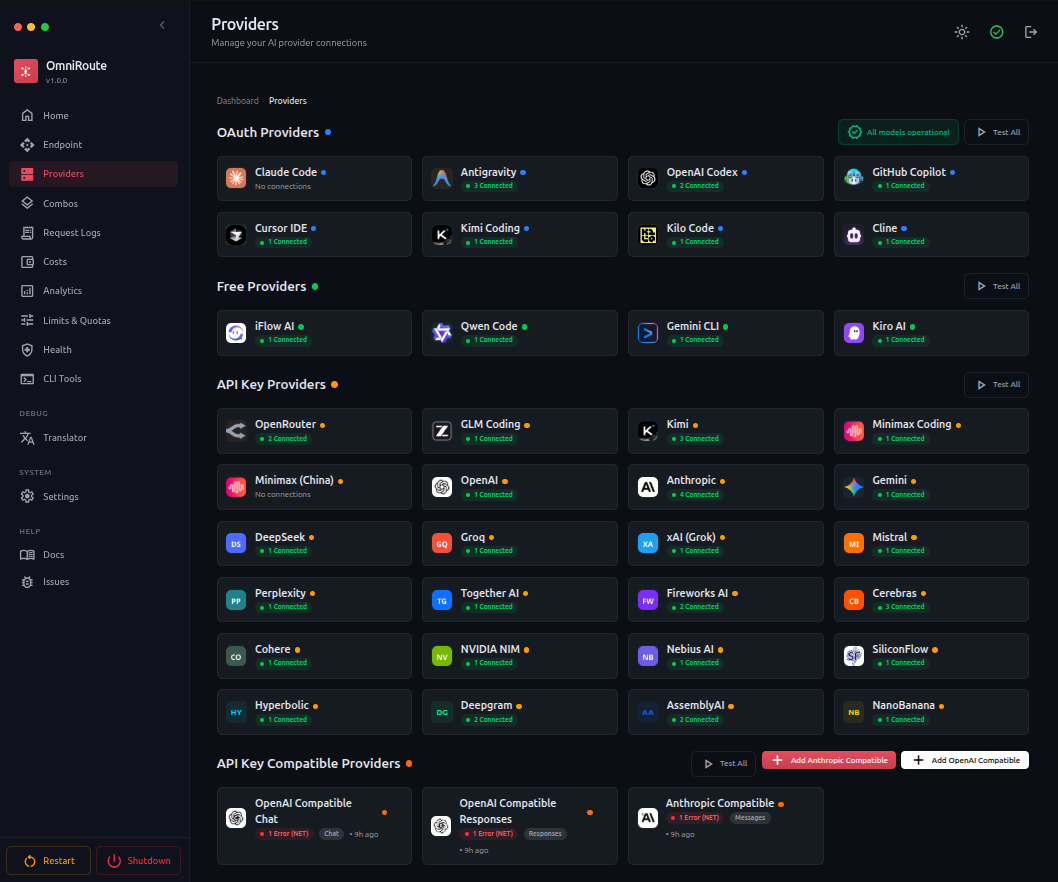
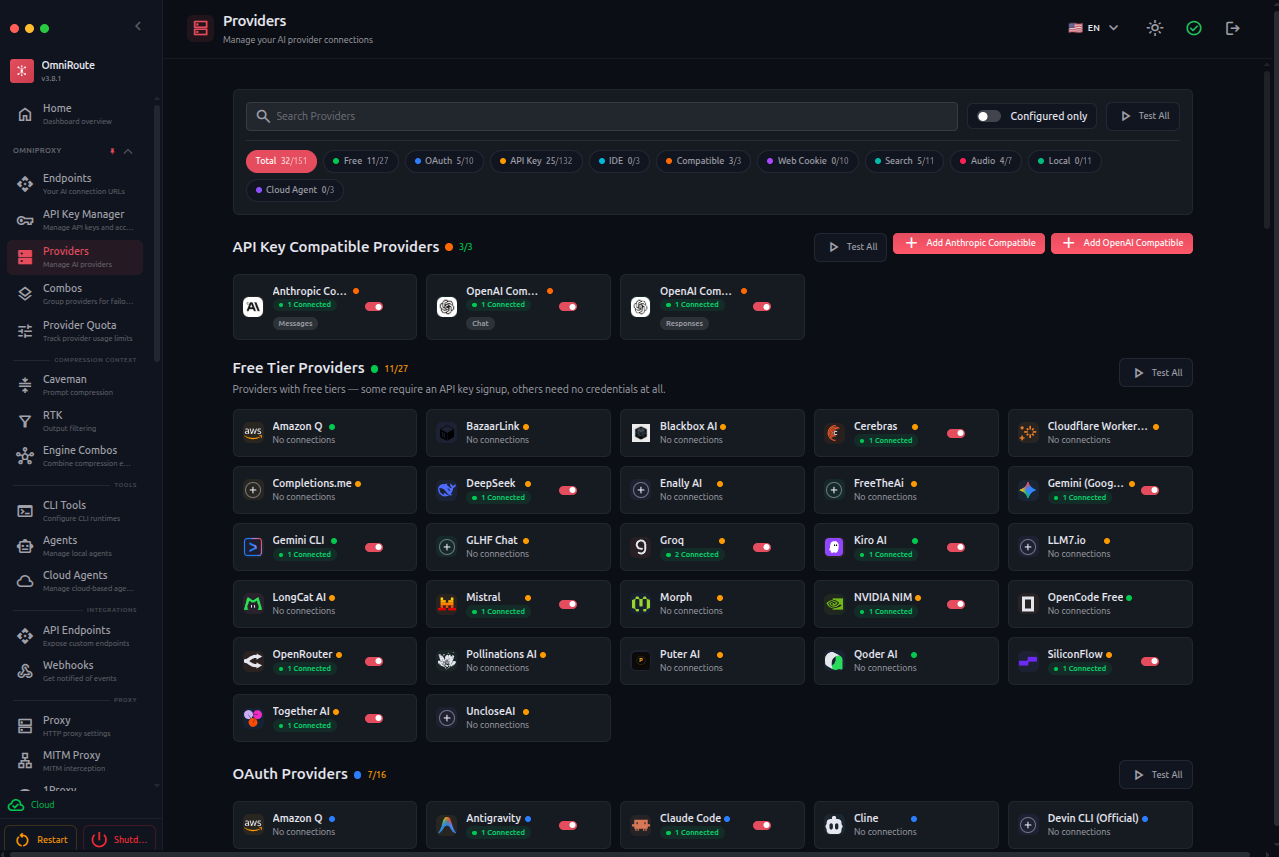
fix(deepseek-web): fix SSE parser, prompt format, and error handling (#2502)
fix(deepseek-web): fix SSE parser, prompt format, and error handling — integrated into release/v3.8.2

diff --git a/tests/unit/deepseek-web.test.ts b/tests/unit/deepseek-web.test.ts
@@ -213,7 +213,7 @@ test("execute: full flow with mocked API (streaming)", async () => {
     );
     const body = JSON.parse(compCall.body);
     assert.equal(body.chat_session_id, "session-abc-123");
-    assert.equal(body.prompt, "Say hello");
+    assert.ok(body.prompt.includes("Say hello"), "Prompt should contain user message");
   } finally {
     mock.restore();
   }

diff --git a/README_REDESIGN_MANUAL.md b/README_REDESIGN_MANUAL.md
@@ -1,0 +1,177 @@
+# 📐 Manual de Repaginação do README — OmniRoute
+
+> Documento de trabalho. Analisa o README atual, compara com o 9router e propõe **3 layouts**
+> para a parte **acima** de `## 🛠️ Tech Stack`. Não é parte da documentação publicada — pode
+> ser apagado depois que o redesign for aplicado.
+
+---
+
+## 0. Escopo do redesign
+
+| Faixa                             | Linhas        | Ação                                                                                                                |
+| --------------------------------- | ------------- | ------------------------------------------------------------------------------------------------------------------- |
+| **Topo → fim do Troubleshooting** | **1–1468**    | 🎯 **Redesenhar** (27 seções)                                                                                       |
+| `## 🛠️ Tech Stack` em diante      | **1469–1678** | 🔒 **Manter intacto** (Tech Stack, Documentation, Contributors, Star History, StarMapper, Acknowledgments, License) |
+
+Estado atual do alvo: **27 seções / ~1.468 linhas**. O 9router cobre o mesmo terreno em **~7 seções enxutas**.
+
+---
+
+## 1. Diagnóstico — o que está quebrado
+
+### 1.1 Hero sobrecarregado (linhas 1–60)
+
+- **Dois blocos de badges** separados (linhas 9–13 e 41–56): npm, license, node, stars, Trendshift, depois npm version/week/month/year, Docker, electron, license (de novo), contributions, streak, website, whatsapp.
+- **Trendshift duplicado**: linha 13 **e** linha 25.
+- **Promo AgentRouter gigante** (badge `for-the-badge` + subtítulo "Limited offer") logo no topo — parece anúncio antes de explicar o produto.
+- **Mural de 40+ idiomas** (linha 35): uma parede de bandeiras a 35 linhas do topo.
+- **Parágrafo-descrição denso** (linha 7) com 6 números em negrito numa só frase — nada "brilha", tudo compete pela atenção.
+- **Resultado**: a primeira tela é uma muralha de badges/links/promo. Falta um soco visual de "o que é + por que me importo".
+
+### 1.2 Números inconsistentes (corrói credibilidade)
+
+| Métrica                    | Onde diverge                                                                                           | Valores conflitantes |
+| -------------------------- | ------------------------------------------------------------------------------------------------------ | -------------------- |
+| **Provedores totais**      | hero (l.7) `160+` · Why (l.214) `207+` · tabela vs alternativas (l.260) `207+` · header (l.406) `160+` | **160+ vs 207+**     |
+| **MCP tools / scopes**     | hero/Also-solves `37 tools` · tabela 31 problemas (l.708) `29 tools, 10 scopes`                        | **37/13 vs 29/10**   |
+| **Estratégias de routing** | hero (l.7) `13` · tabela Why (l.261) `14`                                                              | **13 vs 14**         |
+| **Provedores free**        | "11 Free Providers" (l.689, l.1024) · tabela visual (l.426) mostra `8` · About `50+`                   | **8 vs 11 vs 50+**   |
+
+### 1.3 Conteúdo duplicado / redundante
+
+- **DOIS diagramas de fallback** que até divergem: "Why OmniRoute?" mostra **3 tiers** (l.221–246); "How It Works" mostra **4 tiers** (l.531–555).
+- **TRÊS listas de benefícios sobrepostas**: "Why this matters / Also solves" (l.248–289) + "What OmniRoute Solves" (l.680, tabela + 31 problemas) + "Key Features" (l.1091). Dizem quase a mesma coisa três vezes.
+- **Compressão mencionada 5×**: hero, "Also solves", diagrama "How It Works", seção dedicada, e "Key Features".
+
+### 1.4 Ordem de seções problemática
+
+- `## 📧 Support` na **linha 292** — cedo demais (antes de mostrar CLI tools, provedores ou features).
+- `## ⚡ Quick Start` só na **linha 746** — o dev rola ~745 linhas de marketing antes de descobrir como instalar. Para uma ferramenta de dev, isso é invertido.
+- `## 🤖 AI Agent Skills` (l.516) espremida entre Providers e How It Works — quebra o fluxo.
+
+### 1.5 Muros de texto
+
+- **Docker** (l.807–896): parágrafos longos de notas (Cloudflare tunnel, WAL, stop-timeout…) que deveriam estar colapsados.
+- **Compressão** (l.559–677): excelente conteúdo, mas longo e técnico demais para a primeira dobra de um README.
+- **FAQ** (l.1345–1454, ~110 linhas), **Use Cases** (l.1159–1265, ~106 linhas), **Pricing** (l.980–1021): grandes e abertos.
+
+### 1.6 Tamanho
+
+~1.468 linhas antes do Tech Stack. Meta realista de redução: **‑60% a ‑75%** de conteúdo visível (o resto vai para `<details>` ou links de docs, sem perder nada).
+
+---
+
+## 2. Correções transversais (aplicam-se a QUALQUER layout escolhido)
+
+### 2.1 Fixar números canônicos (escolher um valor e usar em todo lugar)
+
+| Métrica                | Valor canônico recomendado                                     | Observação                                                      |
+| ---------------------- | -------------------------------------------------------------- | --------------------------------------------------------------- |
+| Provedores totais      | **160+**                                                       | Combina com a About nova e o header da seção. Aposentar `207+`. |
+| Provedores free        | **11 grátis "forever" + 50+ com free-tier**                    | Alinhar a tabela visual (hoje 8) e os headers.                  |
+| MCP                    | **37 tools · 3 transports · 13 scopes**                        | Corrigir `29 tools / 10 scopes` da tabela dos 31 problemas.     |
+| Estratégias de routing | **14**                                                         | Corrigir o `13` do hero.                                        |
+| Compressão             | **15–95% (RTK+Caveman stacked), ~89% médio**                   | Já consistente — manter.                                        |
+| Provas sociais         | **4.690+ testes · 517 arquivos · 40+ idiomas · 16+ CLI tools** | Manter como credibilidade.                                      |
+
+### 2.2 Deduplicar
+
+- **Um único** diagrama de fallback (unificar os dois; usar 4 tiers: Subscription → API Key → Cheap → Free).
+- **Uma única** tabela consolidada de capacidades (fundir "What Solves" + "Key Features" + "Also solves").
+- **Um único** Trendshift no hero.
+
+### 2.3 Reordenar
+
+- `Quick Start` sobe para logo após o pitch.
+- `Support` desce para o rodapé (logo antes do Tech Stack).
+- Niche (Agent Skills, Transcription, Evals) viram `<details>` ou blocos curtos no fim.
+
+### 2.4 Persuasão honesta (promessas que cumprimos)
+
+Manter o tom vendedor, mas toda afirmação ancorada: "never hit limits" → justificado pelo **auto-fallback**; "save up to 95%" → é o teto do **stacked**, citar a média ~89%; "unlimited FREE" → é o que Kiro/Qoder/Qwen oferecem hoje (datado). Evitar superlativos sem lastro.
+
+---
+
+## 3. Princípios de design
+
+**Do 9router (o que copiar):** hero curtíssimo (logo + 1 tagline + 1 linha "conecte X → Y" + 5 badges + nav); bloco `❌ problema / ✅ solução` escaneável; **um** diagrama; Quick Start em 3 passos logo no início.
+
+**Nossa vantagem (o que destacar, e o 9router não tem):** 160+ provedores (vs 40+) · RTK **+ Caveman stacked** 15–95% (vs RTK 20–40%) · MCP (37 tools) · A2A · Memory · Skills · Guardrails · Evals · 14 estratégias · multi-plataforma (Web/Desktop/Termux/PWA) · 40+ idiomas · TLS stealth · cloud agents.
+
+---
+
+## 4. Os 3 layouts propostos
+
+### 🅰️ Layout A — Minimalista / Dev-first
+
+**Filosofia:** chegar a valor + instalação no menor número de linhas. Colapsar agressivamente. Meta **~350–450 linhas**.
+
+```
+1. Hero slim (img + título + 1 tagline + 1 linha "conecte X→Y" + 5 badges + nav)
+   └─ <details> Badges extras, 40+ idiomas, sponsor AgentRouter
+2. 🤔 Why — ❌problema / ✅solução (estilo 9router) + 5 linhas do comparativo
+   └─ <details> tabela comparativa completa
+3. 🔄 How It Works — UM diagrama de fallback unificado
+4. ⚡ Quick Start — 3 passos  └─ <details> Docker/source/Arch/pnpm
+5. 🤖 Tools + Providers (grids enxutos)  └─ <details> "+130 provedores"
+6. 💡 Capabilities — UMA tabela consolidada  └─ <details> 31 problemas
+7. 🗜️ Compressão — tabela + before/after  └─ <details> arquitetura/math
+8. 📚 Resto (Pricing, Use Cases, Proxy, Platforms, FAQ…) → <details> ou links docs
+```
+
+**Prós:** lê em 1 minuto, dev instala rápido. **Contras:** marketing/visual mais discreto.
+
+---
+
+### 🅱️ Layout B — Vitrine visual / Marketing-first
+
+**Filosofia:** encantar e vender a promessa, depois provar. Landing-page. Meta **~600–700 linhas**.
+
+```
+1. Hero visual (screenshot grande + headline-promessa + faixa de 3 stats
+   "160+ provedores · 15–95% economia · $0 pra começar" + CTAs)
+2. 💥 A Promessa — grid 2×3 de cards (Never hit limits / Save 95% / $0 / Todo tool / 1 endpoint / Self-host)
+3. 🤔 Why — ❌/✅
+4. 🏆 vs Alternativas — tabela comparativa VISÍVEL (é persuasiva)
+5. 🎬 Prova social — vídeos + Trendshift + estrelas no alto
+6. 🤖 Funciona com suas ferramentas — grid com ⭐ stars
+7. 🌐 160+ provedores — grid visual, free destacado
+8. 🗜️ Economize 15–95% — números headline + before/after
+9. ⚡ Quick Start — 3 passos
+10. 📚 Resto → <details>
+```
+
+**Prós:** impressiona, ótimo pra conversão/compartilhamento. **Contras:** mais longo; dev técnico pode achar "vendedor demais".
+
+---
+
+### 🅲 Layout C — Equilibrado / Híbrido ⭐ (recomendado)
+
+**Filosofia:** hero limpo-mas-confiante, caminho rápido ao valor, prova persuasiva, e `<details>` disciplinado. Narrativa: Gancho → Por quê → Prova → Instale → Capacidades → Aprofundamentos (colapsados). Meta **~500–600 linhas**.
+
+```
+1. Hero limpo (img + título + 1 tagline + 1 linha "conecte X→Y" + faixa de stats
+   + 5 badges + Trendshift único + nav)
+   └─ <details> Badges secundários + 40+ idiomas + sponsor
+2. 🤔 Why OmniRoute? — ❌/✅ + UM diagrama de 4 tiers
+3. 🏆 What sets us apart — top-8 do comparativo  └─ <details> tabela completa
+4. ⚡ Quick Start — 3 passos + callout Free Stack  └─ <details> outros métodos
+5. 🤖 Works with 16+ tools — grid coding-agents + CLI fundidos
+6. 🌐 160+ provedores (50+ free) — OAuth + Free + top API  └─ <details> "+130 mais"
+7. ✨ Capabilities — UMA tabela consolidada  └─ <details> 31 problemas
+8. 🗜️ Compressão — save 15–95% (tabela + before/after)  └─ <details> arquitetura/math
+9. 📦 Platforms & Deploy — Multi-plataforma + Docker condensados  └─ <details> notas
+10. 📚 More — Pricing, Use Cases, Proxy, Evals, Free Models, Transcription, FAQ,
+    Troubleshooting, Skills, Vídeos → grupos colapsáveis / links docs
+11. 📧 Support (movido pro fim)
+```
+
+**Prós:** limpo + persuasivo + completo, ~⅓ do tamanho, nada importante perdido (só colapsado). **Contras:** exige mais cuidado de execução que o A.
+
+---
+
+## 5. Recomendação e próximos passos
+
+- **Recomendado: Layout C** — equilibra a clareza do 9router com os nossos diferenciais, sem perder conteúdo (só colapsa).
+- Independente da escolha, aplicar **todas** as correções transversais da seção 2 (números canônicos, deduplicação, reordenação).
+- Próximo passo: você escolhe o layout; eu reescrevo as linhas 1–1468 do `README.md`, preservando 1469+ intactas, e depois propago para os READMEs traduzidos (`docs/i18n/*`) se desejar.

diff --git a/CHANGELOG.md b/CHANGELOG.md
@@ -87,6 +87,44 @@
 
 ---
 
+## [3.8.1] — 2026-05-21
+
+### ✨ New Features
+
+- **feat(settings):** Feature Flags Settings Page (Card Grid + DB overrides) — fully implements the feature flags UI dashboard using Variant A (Card Grid) with Glassmorphism, complete with global `GET/PUT/DELETE` API routes, Zod validation, debounced search, category filters, and full 30+ locale i18n support. Resolves priority hierarchy to DB > ENV > Defaults. ([#2457](https://github.com/diegosouzapw/OmniRoute/pull/2457))
+- **feat(db):** multi-driver SQLite abstraction layer — new `SqliteAdapter` interface with 3 concrete adapters (`betterSqliteAdapter`, `nodeSqliteAdapter`, `sqljsAdapter`) and a `driverFactory` that cascades `better-sqlite3` → `node:sqlite` → `sql.js (WASM)`. Enables OmniRoute to run on any JavaScript runtime (Node.js, Bun, Deno, Cloudflare Workers) without native binary dependencies. `better-sqlite3` moved to `optionalDependencies`. ([#2447](https://github.com/diegosouzapw/OmniRoute/pull/2447))
+- **feat(settings):** Claude Fast Mode toggle in Settings › AI — opt-in toggle that forwards `X-CPA-Force-Fast-Mode` header so a paired CLIProxyAPI build can reach Anthropic Fast Mode (`speed:"fast"`). Model-gated to Opus models matching Anthropic's binary KT() check. ([#2449](https://github.com/diegosouzapw/OmniRoute/pull/2449) — thanks @NomenAK)
+- **feat(settings):** Codex Fast Tier — tier dropdown (`default`/`priority`/`flex`) + per-model gate preventing 400 errors from OpenAI when the tier toggle was on for non-Fast-eligible models. ([#2451](https://github.com/diegosouzapw/OmniRoute/pull/2451) — thanks @NomenAK)
+- **feat:** align Antigravity 2.0.1 support — updated client profile, upstream headers, and model aliases. ([#2443](https://github.com/diegosouzapw/OmniRoute/pull/2443) — thanks @dhaern)
+- **feat:** enhance `extractBearer` to support `x-api-key` for Anthropic API style auth. ([#2436](https://github.com/diegosouzapw/OmniRoute/pull/2436) — thanks @thedtvn)
+- **feat(memory):** wire `createMemory` to `upsertSemanticMemoryPoint` (Qdrant). ([#2439](https://github.com/diegosouzapw/OmniRoute/pull/2439) — thanks @NomenAK)
+
+### 🔧 Bug Fixes & Refactors
+
+- **fix(deepseek-web):** rewrite auth to userToken Bearer + WASM PoW solver. ([#2452](https://github.com/diegosouzapw/OmniRoute/pull/2452) — thanks @ovehbe)
+- **chore:** update node dependencies and runtime support. ([#2453](https://github.com/diegosouzapw/OmniRoute/pull/2453) — thanks @backryun)
+- **fix(translator):** fix 3 Kiro `tool_result` defects causing 400 on follow-up turns — missing `tool_use_id` mapping, orphan result blocks, and conversation ID collision on assistant-first turns. ([#2447](https://github.com/diegosouzapw/OmniRoute/pull/2447))
+- **fix(translator):** treat `developer` role as system in OpenAI → Claude translation — `openAIToClaude` now extracts `developer`-role messages into `systemParts` (same as `system`) and filters them from the non-system message list, preventing identity context injected via the Responses API `developer` role from silently becoming an assistant turn when routing to a Claude-format provider. ([#2407](https://github.com/diegosouzapw/OmniRoute/issues/2407))
+- **fix(antigravity):** deduplicate `removeHeaderCaseInsensitive` — export canonical implementation from `antigravityClientProfile.ts` and remove the local copy in `antigravity.ts`; export `AntigravityCredentialsLike` type for cross-module use. (#2433 — thanks @Gi99lin)
+- **refactor(docs):** enhance frontmatter handling in DocPage — gray-matter Date object parsing bug fix. ([#2448](https://github.com/diegosouzapw/OmniRoute/pull/2448) — thanks @ovehbe)
+- **fix(jules):** Jules API parity and cloud-agent provider registration. ([#2438](https://github.com/diegosouzapw/OmniRoute/pull/2438))
+- **fix(i18n):** harden diff key extraction tag sanitization in `extract-keys-from-diff.mjs`.
+- **chore(i18n):** refresh fr/es/de locales + add missing `settings.update` key. ([#2437](https://github.com/diegosouzapw/OmniRoute/pull/2437))
+- **fix(dashboard):** allow bracketed combo names — align dashboard combo-name validator regex with the shared/server schema updated in PR #2354; names like `Claude [1m]` are now accepted in the create/edit form. ([#2458](https://github.com/diegosouzapw/OmniRoute/pull/2458) — thanks @congvc-dev)
+
+### 🔒 Security Fixes
+
+- **fix(security):** replace `execSync` string-template with `spawnSync` arg-array in `plugin.mjs` — eliminates shell command injection via malicious plugin names.
+- **fix(security):** gate Electron CSP `unsafe-eval` on `!app.isPackaged` instead of URL substring match — was leaking `unsafe-eval` into production builds; merged duplicate `connect-src` directives.
+- **fix(api):** add `requireManagementAuth` to `/api/usage/budget/bulk` and `/api/resilience/reset` — both endpoints exposed spend data and circuit-breaker controls without auth.
+- **fix(security):** route catch-block error messages through `sanitizeErrorMessage()` in `gemini-web`, `claude-web`, `copilot-web` executors, `oauth` route, and cloud-agent task routes — prevents stack traces and internal paths leaking into HTTP responses.
+- **fix(codex):** `refreshCredentials` returns `null` (not error-object) on token refresh failure — prevents base executor from spreading `{error}` onto active credentials.
+- **fix(tokenRefresh):** safe `unknown`-error access in `catch` block (`error instanceof Error ? error.message : String(error)`).
+- **fix(combo):** reset `exhaustedProviders` set at start of each set-retry iteration — providers excluded in a failing pass now get a second chance on retry.
+- **fix(circuitBreaker):** persist and restore `lastFailureKind` via the `options` JSON column — kind-based cooldown overrides (`cooldownByKind`) now survive server restarts.
+
+---
+
 ## [3.8.0] — 2026-05-06
 
 ### 🚀 Post-release hotfixes e contribuições (2026-05-06 → 2026-05-20)